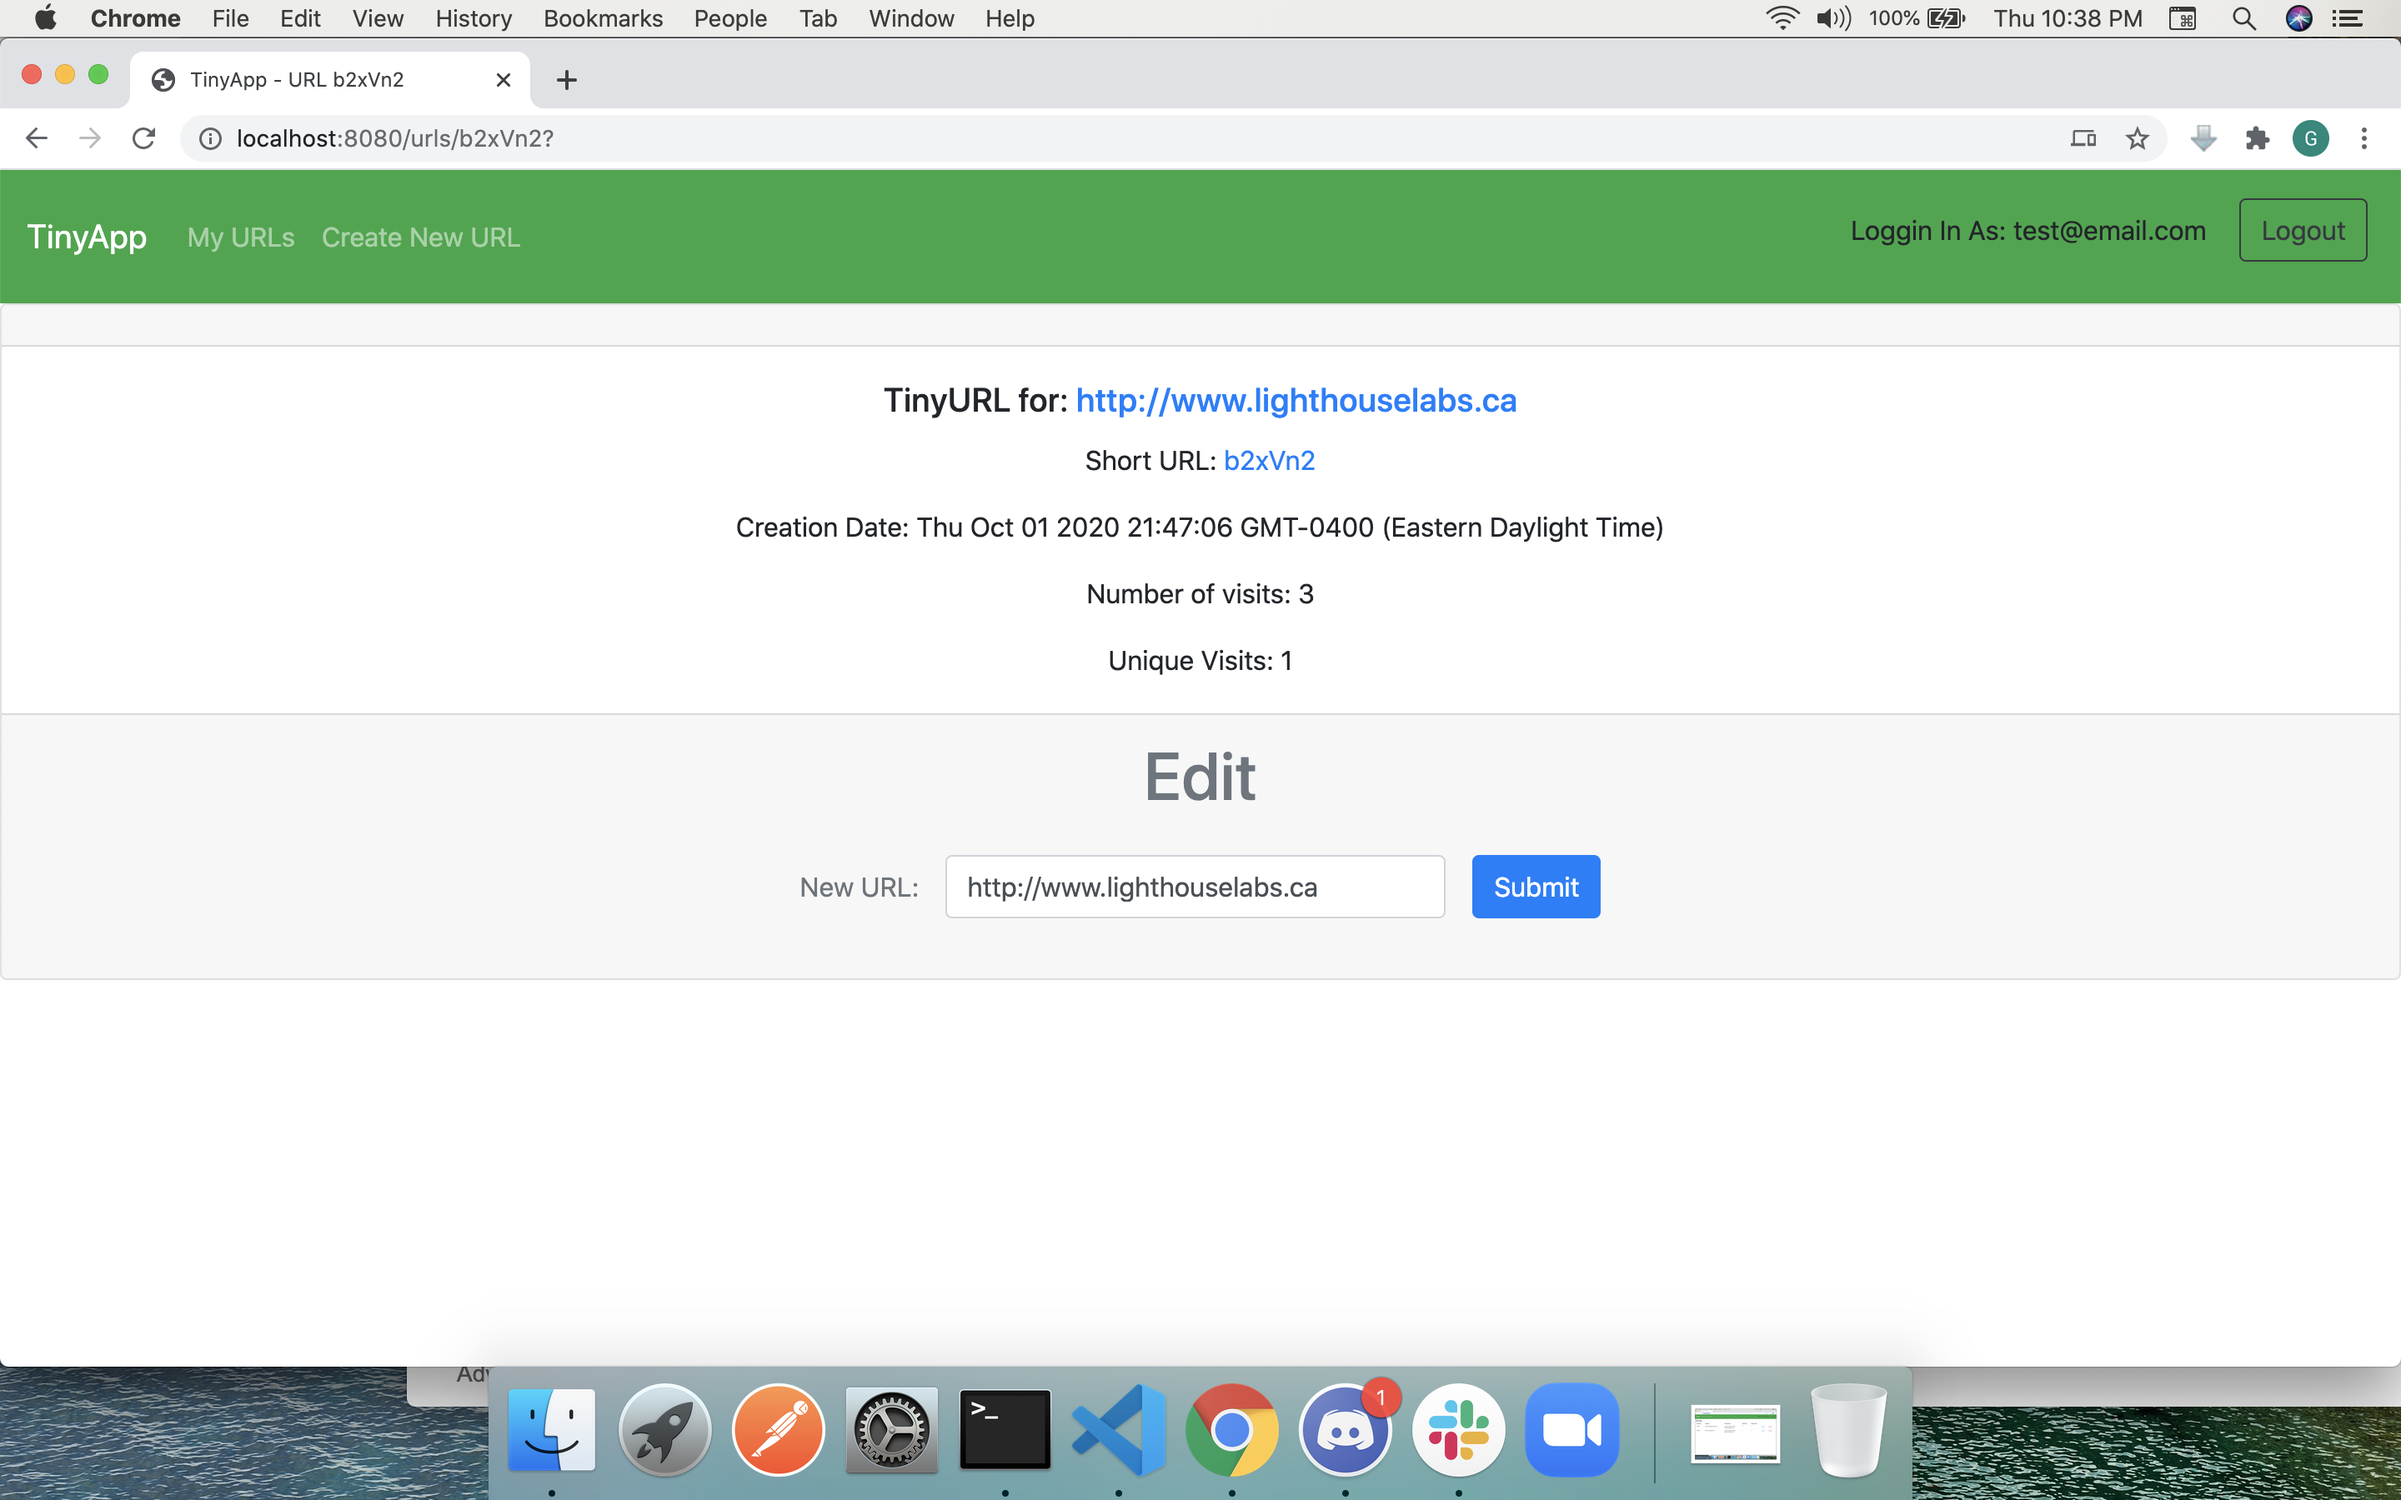
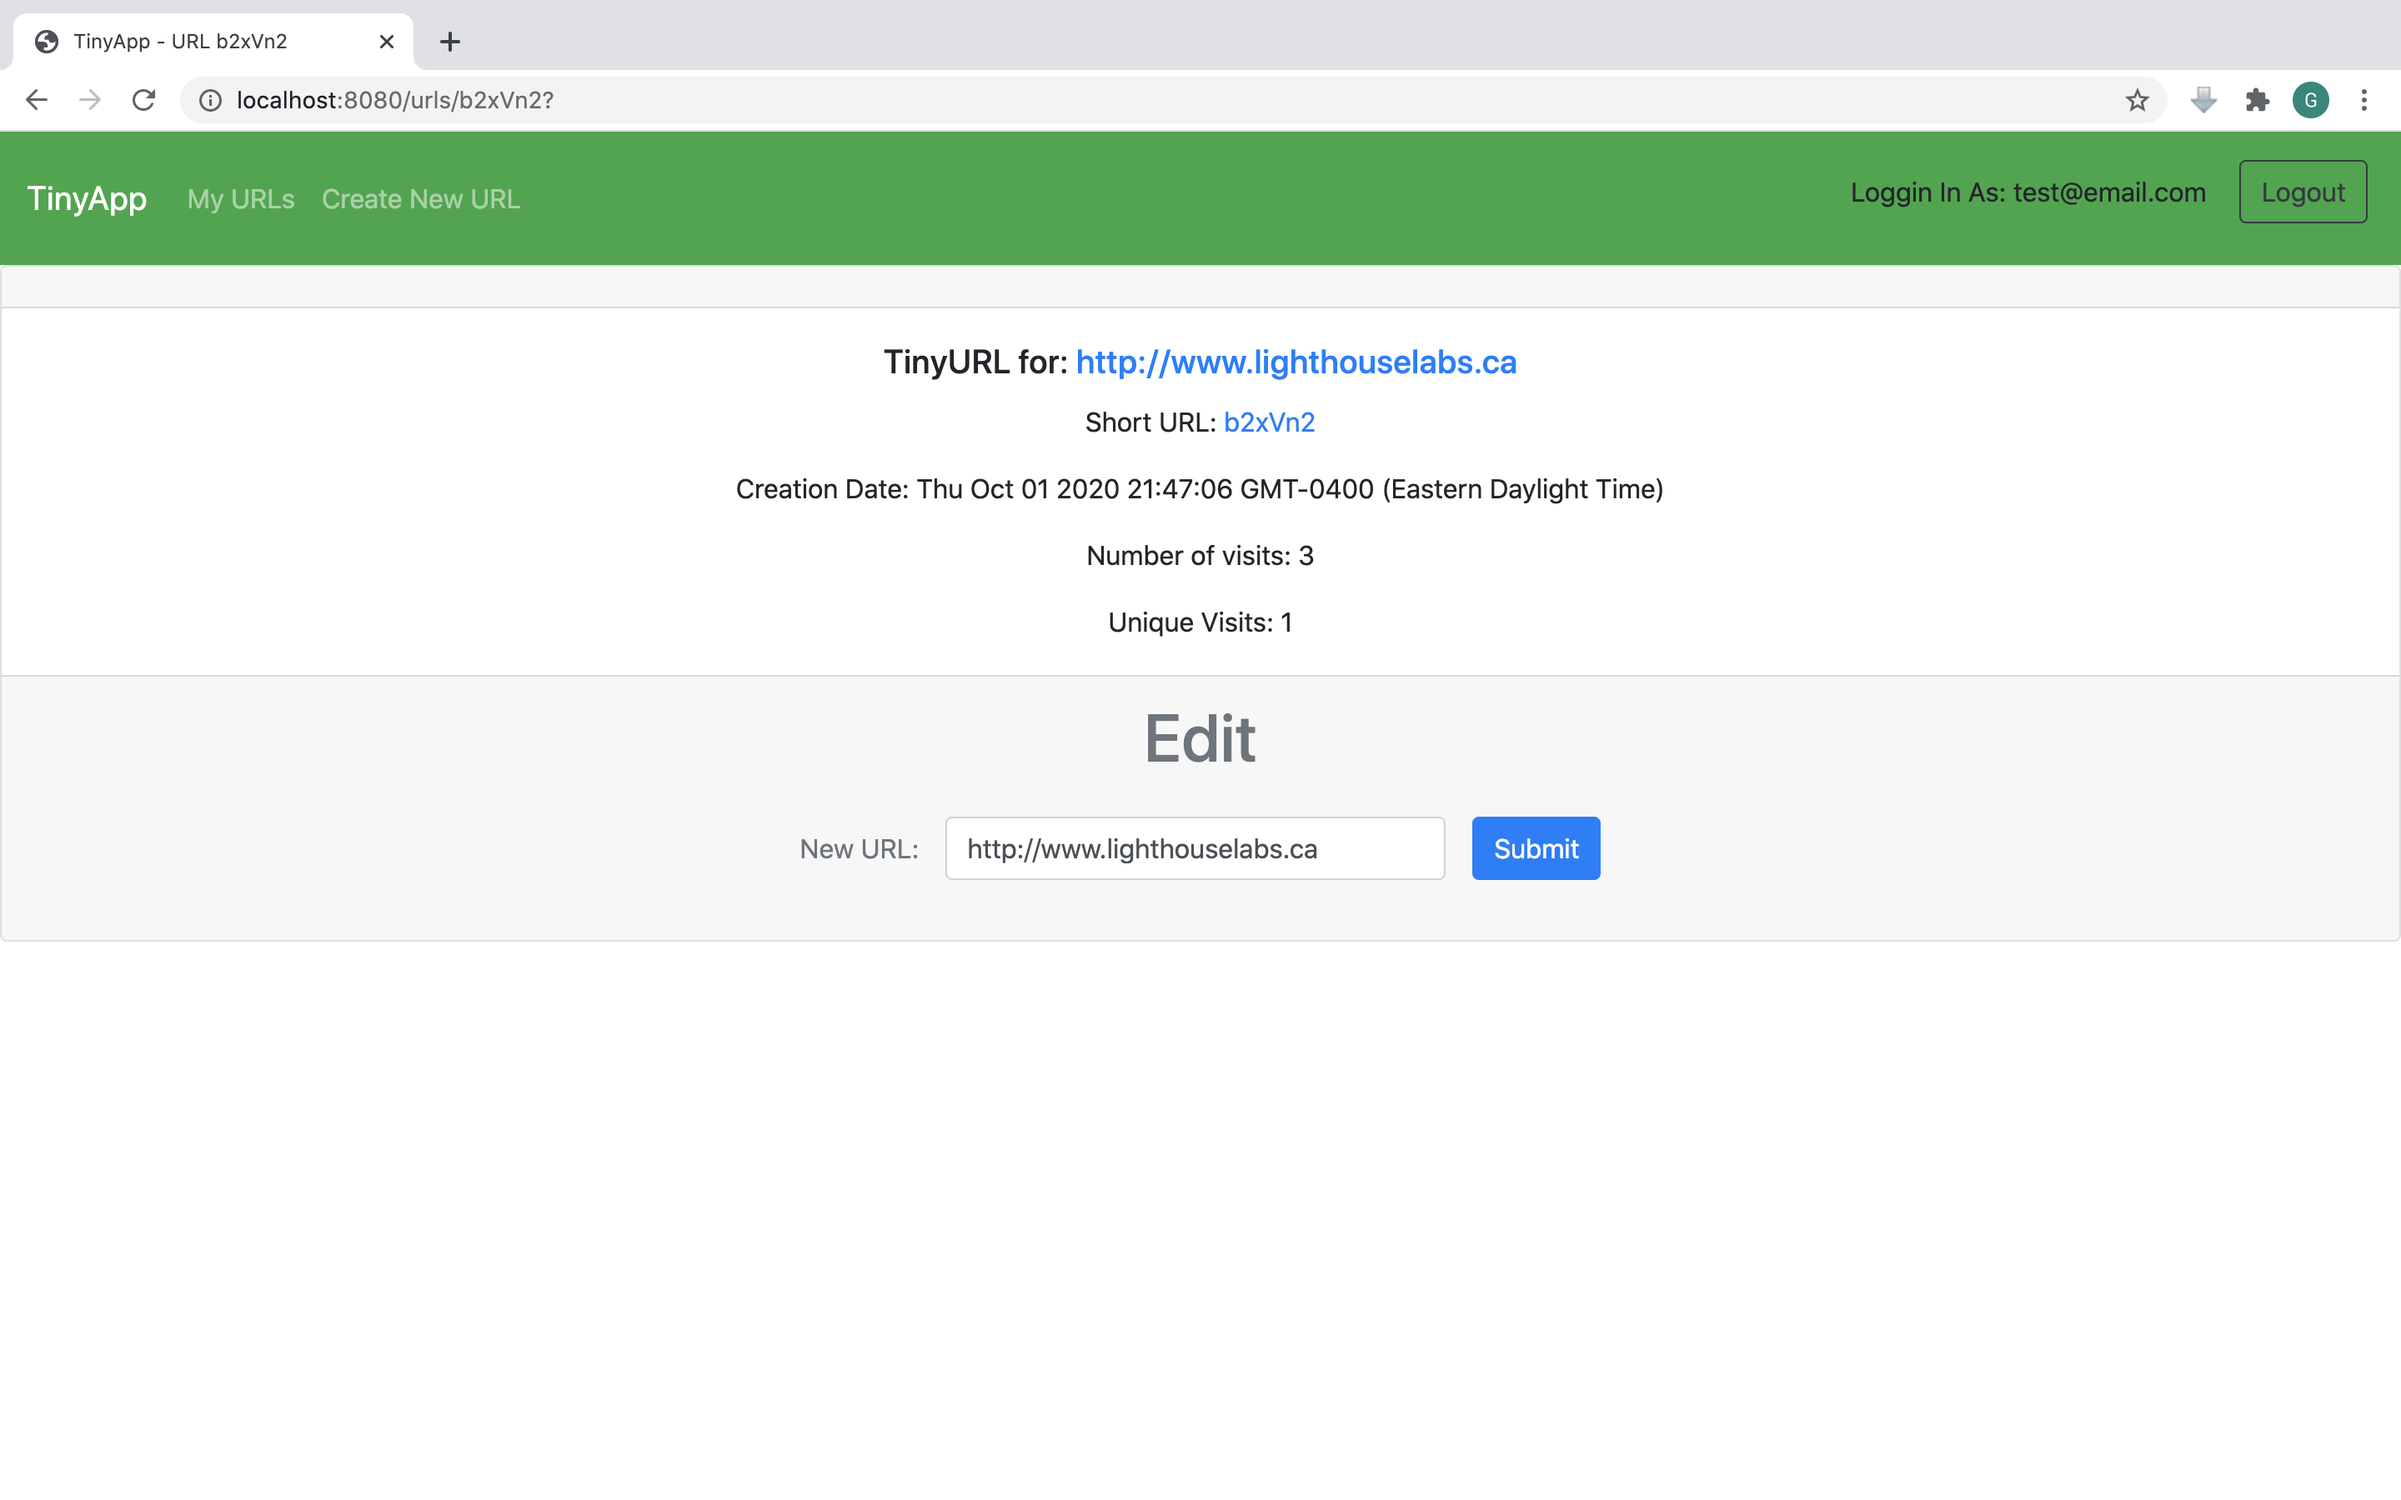
added photos and readme text

Changed region(s): [[0.0, 0.0, 1.0, 0.6222], [0.0, 0.9022, 1.0, 1.0], [0.5938, 0.5289, 0.6875, 0.6222]]

diff --git a/README.md b/README.md
@@ -1,0 +1,26 @@
+# TinyApp Project
+
+TinyApp is a full stack web application built with Node and Express that allows users to shorten long URLs (à la bit.ly).
+
+## Final Product
+
+The index page will show all URLs created and owned by the user. Also shown are the creation date, total visits and unique visits.
+!["screenshot descriptio"](./docs/urls-index-page.png)
+
+Users can also change where the short URL points to.
+!["screenshot description"](./docs/urls-edit-page.png)
+
+## Dependencies
+
+- Node.js
+- Express
+- EJS
+- bcrypt
+- body-parser
+- cookie-session
+- randomstring
+
+## Getting Started
+
+- Install all dependencies (using the `npm install` command).
+- Run the development web server using the `node express_server.js` command.
